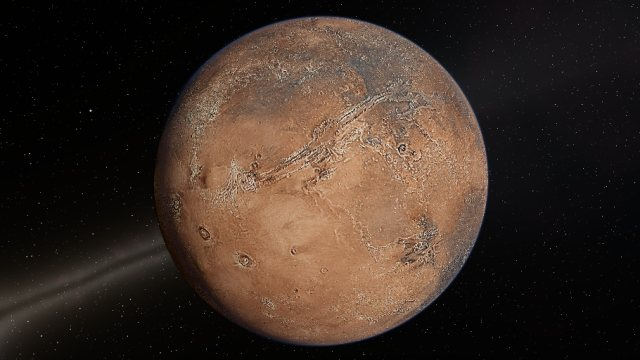
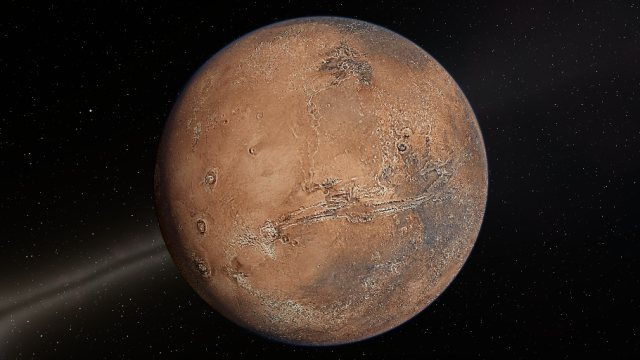
Turn the real-body colour maps the right way up
The colour maps were flipped north to south on upload while the elevation was
not, so the Moon, Mars and the Earth wore their southern hemisphere over their
northern relief (on the Earth the Sahara had the colour of the Southern Ocean).
The mission card pictures are rendered again from the corrected maps, and the
title screen gains the Earth as the engine draws it.

Changed region(s): [[0.2812, 0.0306, 0.7812, 0.9778], [0.25, 0.55, 0.2812, 0.6111]]

diff --git a/src/ui/shell.css b/src/ui/shell.css
@@ -1770,3 +1770,27 @@ dialog.glossary dd {
   object-fit: cover;
   background: #05080d;
 }
+
+/* Title hero: sits behind the text on the right and fades into the page, hidden on narrow screens. */
+.title-screen {
+  position: relative;
+}
+.title-screen > *:not(.title-hero) {
+  position: relative;
+  z-index: 1;
+}
+.title-hero {
+  position: absolute;
+  top: 50%;
+  right: -4vw;
+  width: min(52vw, 82vh);
+  transform: translateY(-50%);
+  pointer-events: none;
+  mask-image: radial-gradient(closest-side, #000 82%, transparent 100%);
+  -webkit-mask-image: radial-gradient(closest-side, #000 82%, transparent 100%);
+}
+@media (max-width: 820px) {
+  .title-hero {
+    display: none;
+  }
+}

diff --git a/src/render/planet/surface-maps.ts b/src/render/planet/surface-maps.ts
@@ -62,6 +62,8 @@ export class SurfaceMaps implements Disposable {
           throw new Error(`${entry.height} has an unexpected size.`);
         }
         albedo.colorSpace = THREE.SRGBColorSpace;
+        // Row 0 of the image is the north pole, and the shader looks it up with v = 0 at the north.
+        albedo.flipY = false;
         albedo.wrapS = THREE.RepeatWrapping;
         // No mip chain: the longitude seam of an equirectangular lookup would pick the smallest mip.
         albedo.generateMipmaps = false;

diff --git a/src/ui/screens/title-screen.tsx b/src/ui/screens/title-screen.tsx
@@ -18,6 +18,8 @@ export function TitleScreen({
 }: TitleScreenProps) {
   return (
     <section class="screen title-screen">
+      {/* Decorative: the Earth as the engine renders it from NASA Blue Marble. */}
+      <img class="title-hero" src={`${import.meta.env.BASE_URL}art/title_earth.jpg`} alt="" />
       <div class="eyebrow">{TEXT.title.eyebrow}</div>
       <h1>{TEXT.brand}</h1>
       <p class="lede">{TEXT.title.lede}</p>

diff --git a/CREDITS.md b/CREDITS.md
@@ -21,7 +21,7 @@ something enters the repo.
 | `public/maps/mars_albedo_4k.jpg`, `public/maps/mars_height_2880x1440.i16` | USGS Astrogeology Science Center: [Viking MDIM 2.1 colour mosaic](https://astrogeology.usgs.gov/search/map/mars_viking_colorized_global_mosaic_232m) (NASA Viking Orbiters) and [MGS MOLA elevation mosaic](https://astrogeology.usgs.gov/search/map/mars_mgs_mola_dem_463m) (NASA Mars Global Surveyor) | Public domain (NASA / USGS) | Mars's real colour and terrain |
 | `public/maps/earth_albedo_4k.jpg` | NASA [Blue Marble Next Generation](https://earthobservatory.nasa.gov/features/BlueMarble), cloud-free, served by [NASA GIBS](https://gibs.earthdata.nasa.gov) | Public domain (NASA) | The Earth's real colour |
 | `public/maps/earth_height_2880x1440.i16` | NOAA NCEI [ETOPO 2022](https://www.ncei.noaa.gov/products/etopo-global-relief-model) 60 arc-second global relief, doi:10.25921/fd45-gt74 | Public domain (NOAA) | The Earth's real terrain and sea floor |
-| `public/art/scenario_*.jpg` | Rendered by this game's engine from the maps above | Own work from public-domain data | Mission card pictures |
+| `public/art/scenario_*.jpg`, `public/art/title_earth.jpg` | Rendered by this game's engine from the maps above | Own work from public-domain data | Mission card and title pictures |
 | `src/data/events_catalog.json` | Event types from real mission experience; probabilities are game balance values | Own work | Random events |
 
 ## Textures
